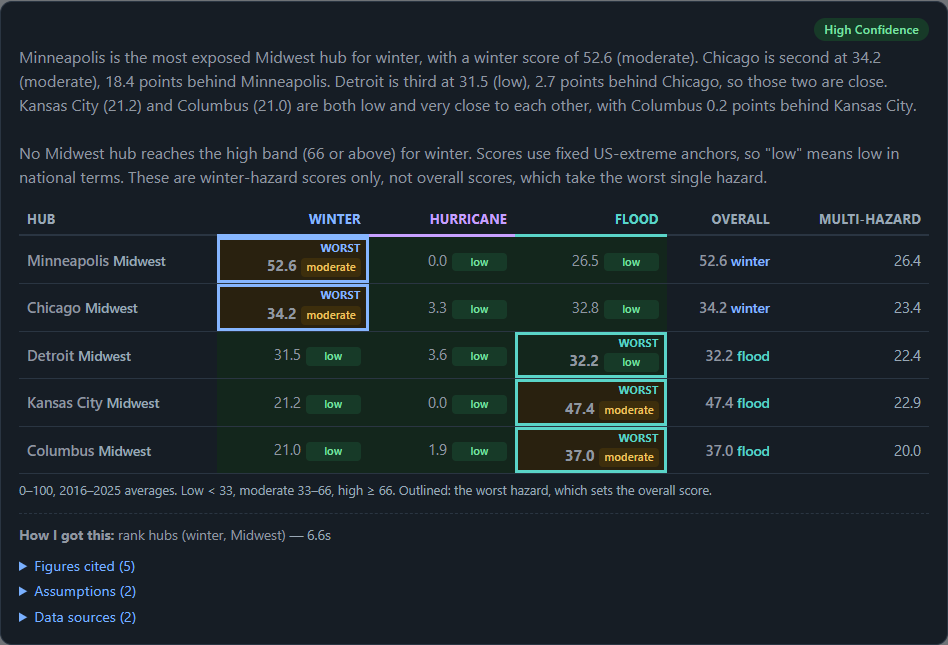
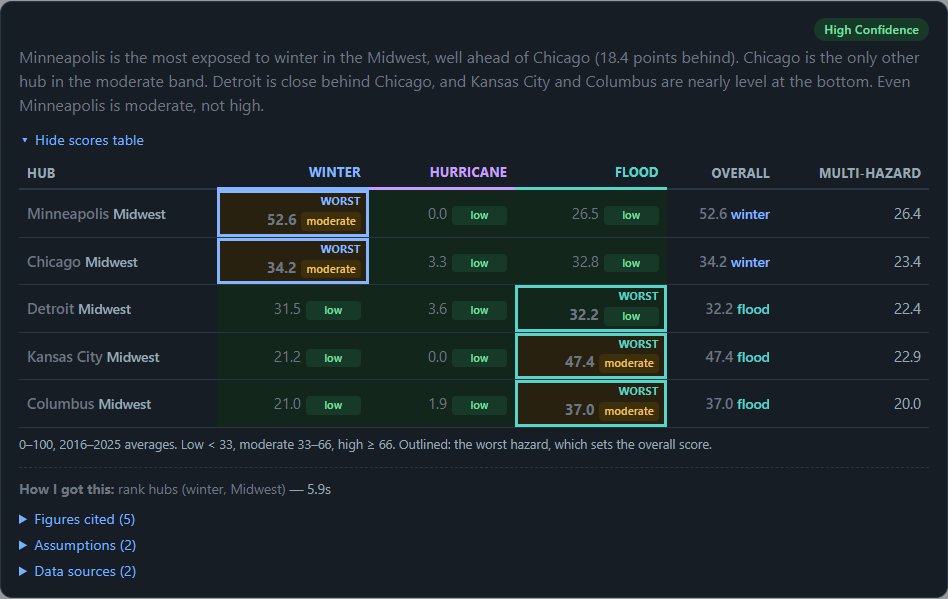
Short answers when a scores table is shown; table toggle per answer
- TABLE_MIN_HUBS = 2 (backend/agent/schema.py): /chat returns show_table,
  and the system prompt states the same rule, so the model writes ~3 short
  sentences (conclusion + what the table does not show) when a table will
  be shown - no extra model call
- prompt: never mention tool or field names in the answer
- UI: table open by default for rankings/comparisons, hidden behind a
  show/hide toggle for single-hub answers
- vite proxy target configurable via BACKEND_URL (default port 8000)
- tests for the table rule; screenshots and docs refreshed

diff --git a/frontend/src/components/AnswerCard.tsx b/frontend/src/components/AnswerCard.tsx
@@ -1,3 +1,4 @@
+import { useState } from 'react'
 import type { ChatResponse, ToolCall } from '../types'
 import { HubScoresTable } from './HubScoresTable'
 
@@ -28,6 +29,22 @@ function Provenance({ response }: { response: ChatResponse }) {
         : dataCalls.map(describe).join(' · ')}
       <span className="muted"> — {seconds}s</span>
     </p>
+  )
+}
+
+/** The hub scores table with a show/hide toggle. Open by default only when the backend says so
+ *  (rankings and comparisons, 2+ hubs); the model wrote a short answer in that case. */
+function ScoresSection({ response }: { response: ChatResponse }) {
+  const [open, setOpen] = useState(response.show_table)
+  const n = response.hub_scores.length
+  if (n === 0) return null
+  return (
+    <>
+      <button className="link-button" onClick={() => setOpen(!open)} aria-expanded={open}>
+        {open ? '▾ Hide scores table' : `▸ Show scores table (${n} hub${n > 1 ? 's' : ''})`}
+      </button>
+      {open && <HubScoresTable hubs={response.hub_scores} />}
+    </>
   )
 }
 
@@ -65,7 +82,7 @@ export function AnswerCard({ response }: { response: ChatResponse }) {
         </div>
       )}
 
-      <HubScoresTable hubs={response.hub_scores} />
+      <ScoresSection response={response} />
 
       <Provenance response={response} />
 

diff --git a/frontend/vite.config.ts b/frontend/vite.config.ts
@@ -3,13 +3,16 @@ import { defineConfig } from 'vite'
 
 // The UI calls /chat and /health on its own origin; Vite forwards them to the FastAPI backend,
 // so the browser never makes a cross-origin request (no CORS setup needed).
+// BACKEND_URL lets a second copy run against another backend (e.g. port 8001) without editing this file.
+const backend = process.env.BACKEND_URL ?? 'http://127.0.0.1:8000'
+
 export default defineConfig({
   plugins: [react()],
   server: {
     port: 5173,
     proxy: {
-      '/chat': 'http://127.0.0.1:8000',
-      '/health': 'http://127.0.0.1:8000',
+      '/chat': backend,
+      '/health': backend,
     },
   },
 })

diff --git a/frontend/src/index.css b/frontend/src/index.css
@@ -142,3 +142,8 @@ details ul { margin: 6px 0; padding-left: 20px; font-size: 0.9rem; }
 .composer button, .secondary { border-radius: 10px; padding: 10px 16px; border: 1px solid var(--btn); }
 .composer button { background: var(--btn); color: var(--btn-text); }
 .secondary { background: var(--card); color: var(--accent); white-space: nowrap; border-color: var(--line); }
+
+/* show / hide scores table toggle */
+.link-button { display: block; margin-top: 12px; padding: 0; background: none; border: none; color: var(--accent); font-size: 0.9rem; }
+.link-button:hover { text-decoration: underline; }
+.link-button + .table-wrap { margin-top: 6px; }

diff --git a/frontend/src/App.tsx b/frontend/src/App.tsx
@@ -43,7 +43,7 @@ export default function App() {
     } catch (e) {
       response = {
         session_id: sessionId ?? '', answer: null, grounding: null, tool_calls: [], rounds: 0,
-        latency_ms: 0, model: '', hub_scores: [],
+        latency_ms: 0, model: '', hub_scores: [], show_table: false,
         error: e instanceof Error ? `${e.message} — is the backend running on port 8000?` : 'Request failed.',
       }
     }

diff --git a/frontend/src/types.ts b/frontend/src/types.ts
@@ -54,4 +54,5 @@ export interface ChatResponse {
   latency_ms: number
   model: string
   hub_scores: HubSummary[]
+  show_table: boolean // backend rule: table open by default for 2+ hubs (rankings, comparisons)
 }

diff --git a/tests/test_app.py b/tests/test_app.py
@@ -15,9 +15,11 @@ def client(monkeypatch):
     import backend.app as app_module
 
     def fake_turn(conn, session, question):
+        # the question text picks which hubs the fake answer references
+        hubs = {"single": ["denver"], "none": []}.get(question, ["miami", "houston", "miami", "seattle"])
         session.messages.append({"role": "user", "content": question})
         return TurnResult(model="fake", answer=AgentAnswer(
-            answer="Miami and Houston.", hubs_referenced=["miami", "houston", "miami", "seattle"],
+            answer="a", hubs_referenced=hubs,
             scores=[], reasoning="r", assumptions=[], confidence="high", data_sources=[]),
             grounding=Grounding(ok=True))
 
@@ -38,6 +40,21 @@ def test_chat_returns_deterministic_hub_scores_in_answer_order(client):
     assert miami["worst_hazard"] == "hurricane"
     assert miami["overall"] == miami["hazards"]["hurricane"]["score"]
     assert set(miami["hazards"]) == {"winter", "hurricane", "flood"}
+
+
+def test_table_shown_by_default_only_for_two_or_more_hubs(client):
+    comparison = client.post("/chat", json={"message": "Compare Miami and Houston"}).json()
+    assert comparison["show_table"] is True                      # 2 hubs (duplicate + non-hub dropped)
+    single = client.post("/chat", json={"message": "single"}).json()
+    assert single["show_table"] is False and len(single["hub_scores"]) == 1   # data still sent for the toggle
+    none = client.post("/chat", json={"message": "none"}).json()
+    assert none["show_table"] is False and none["hub_scores"] == []
+
+
+def test_prompt_states_the_same_table_rule():
+    from backend.agent.prompt import build_system_prompt
+    from backend.agent.schema import TABLE_MIN_HUBS
+    assert f"lists {TABLE_MIN_HUBS} or more hubs" in build_system_prompt()
 
 
 def test_session_id_is_reused_for_follow_ups(client):

diff --git a/backend/agent/prompt.py b/backend/agent/prompt.py
@@ -3,6 +3,7 @@ preserved thinking both require an unchanged system prompt), so nothing volatile
 
 from __future__ import annotations
 
+from backend.agent.schema import TABLE_MIN_HUBS
 from backend.ingestion.common import load_hubs_file
 from backend.settings import FIRST_YEAR, LAST_FULL_YEAR
 
@@ -63,4 +64,16 @@ End every reply by calling submit_answer exactly once - also when the answer is 
 "out of scope". Put the analyst-facing reply in `answer`: direct, short paragraphs or a short list, no
 headings. List in `scores` every number the answer relies on, with the hub_id and value exactly as the
 tool returned them. Do not write the answer as plain text outside submit_answer.
+
+## The scores table under your answer
+When `hubs_referenced` lists {TABLE_MIN_HUBS} or more hubs, the interface shows a table under your
+answer with each of those hubs' winter, hurricane, flood, overall and multi-hazard scores and levels,
+the worst hazard marked. List the hubs in `hubs_referenced` in the order you discuss them (ranking order
+for rankings). In that case `answer` is at most 3 sentences and about 60 words: the conclusion first,
+then only what the table does not show - a gap between hubs (quoted from the tool), a tie, an order
+that changes between the overall and multi-hazard scores, the one metric that decides the comparison,
+or a caveat. Pick the one or two that matter most; do not list every metric and do not restate scores
+the table already shows. With fewer hubs no table is shown, so give the full answer.
+
+Never mention tool names or field names (such as points_behind_previous) in `answer`; write for an analyst.
 """

diff --git a/backend/app.py b/backend/app.py
@@ -10,6 +10,7 @@ from pydantic import BaseModel, Field
 
 from backend.agent.config import load_config
 from backend.agent.loop import Agent, SessionStore, TurnResult
+from backend.agent.schema import TABLE_MIN_HUBS
 from backend.db import connect
 from backend.settings import DB_PATH, FIRST_YEAR, LAST_FULL_YEAR
 from backend.tools.scores import all_scores
@@ -45,6 +46,8 @@ class HubSummary(BaseModel):
 class ChatResponse(TurnResult):
     session_id: str
     hub_scores: list[HubSummary] = []
+    # show the table by default only for rankings / comparisons; the user can still toggle it
+    show_table: bool = False
 
 
 def hub_summaries(conn, hub_ids: list[str]) -> list[HubSummary]:
@@ -90,4 +93,5 @@ def chat(req: ChatRequest) -> ChatResponse:
         summaries = hub_summaries(conn, result.answer.hubs_referenced) if result.answer else []
     finally:
         conn.close()
-    return ChatResponse(session_id=session.id, hub_scores=summaries, **result.model_dump())
+    return ChatResponse(session_id=session.id, hub_scores=summaries,
+                        show_table=len(summaries) >= TABLE_MIN_HUBS, **result.model_dump())

diff --git a/backend/agent/schema.py b/backend/agent/schema.py
@@ -7,6 +7,12 @@ from typing import Literal
 from pydantic import BaseModel, Field
 
 
+# The UI shows the hub scores table automatically when the answer references at least this many hubs
+# (rankings and comparisons). The same rule is stated in the system prompt, so the model knows when to
+# keep its text short instead of repeating the table. One constant, used by both.
+TABLE_MIN_HUBS = 2
+
+
 class ScoreItem(BaseModel):
     hub_id: str = Field(description="hub_id exactly as returned by a tool, e.g. 'kansas_city'")
     name: str = Field(description="what the value is, e.g. 'flood score', 'overall score', "

diff --git a/docs/screenshots/README.md b/docs/screenshots/README.md
@@ -7,8 +7,9 @@ on 2026-11-22. Answers vary slightly between runs; the numbers come from the sco
 |---|---|
 | `01-empty-light.png`, `01-empty-dark.png` | Empty screen: the client's 4 example questions as one-click chips; theme toggle in the header. |
 | `02-loading-light.png`, `02-loading-dark.png` | Loading state: bouncing "thinking" dots, stage message and elapsed seconds. |
-| `03-table-light.png`, `03-table-dark.png` | Midwest winter answer: hub scores table with level colours and the worst hazard outlined in its hazard colour. The answer quotes score gaps returned by `rank_hubs` ("2.7 points behind Chicago"); no number warning. |
-| `04-follow-up-dark-full.png` | Full conversation: the Midwest question and the Kansas City follow-up in the same session. |
-| `05-dallas-dark.png` | False premise: "Why is Dallas high?" — the answer says it is moderate, shows the breakdown, and cites tornado / hail / ice-storm context that is not scored. |
-| `06-denver-details-light.png` | Denver snowfall %, with "Figures cited", "Assumptions" and "Data sources" expanded. |
+| `03-table-light.png`, `03-table-dark.png` | Midwest winter ranking: a short answer (conclusion + what the table does not show, e.g. score gaps returned by `rank_hubs`) and the hub scores table, shown by default for 2+ hubs, with level colours and the worst hazard outlined in its hazard colour. |
+| `04-follow-up-dark-full.png` | Full conversation: the Midwest question and the Kansas City follow-up in the same session, each with its table and a hide/show toggle. |
+| `05-dallas-dark.png` | False premise, single hub: "Why is Dallas high?" — full answer (it is moderate, the breakdown, and not-scored tornado / hail / ice-storm context); table hidden by default. |
+| `06-denver-details-light.png` | Single-metric answer (Denver snowfall %): full answer, table hidden behind "Show scores table (1 hub)", with "Figures cited", "Assumptions" and "Data sources" expanded. |
+| `08-single-hub-table-toggled-light.png` | The Denver answer after clicking "Show scores table". |
 | `07-warning-MOCKED-light.png` | **MOCKED RESPONSE — not a real answer.** The `/chat` response was replaced in the browser with a hand-written one containing an invented number (9.5), only to show how the "Check these numbers" warning looks. The backend was not involved. |

diff --git a/docs/ARCHITECTURE.md b/docs/ARCHITECTURE.md
@@ -55,6 +55,13 @@ external APIs at question time.
 - The scores table comes from `hub_scores` in the `/chat` response: the backend looks up the scoring
   code's numbers for every hub in `answer.hubs_referenced`. The model never fills that table, so the
   highlight cannot be wrong even if the model's wording is.
+- **Table shown by default only for rankings and comparisons** (`TABLE_MIN_HUBS = 2` hubs, in
+  `backend/agent/schema.py`); single-hub answers (Denver, Dallas) keep it behind a per-answer
+  show/hide toggle. The same constant is stated in the system prompt, so when a table will be shown
+  the model writes at most ~3 short sentences (~60 words): the conclusion plus what the table does not
+  show (a gap, a tie, an order change between overall and multi-hazard, the deciding metric, a
+  caveat). No extra model call: the rule is known before the model writes. Measured on real answers:
+  Midwest ranking 111 → 54 words, Miami vs Houston 165 → 54 words; single-hub answers unchanged.
 - Empty screen: the client's 4 example questions as one-click chips. Follow-ups reuse the
   `session_id`; "New conversation" drops it. A loading card ("Checking the data…", elapsed seconds)
   replaces the ~5–12 s wait, with three bouncing dots (static under `prefers-reduced-motion`).
